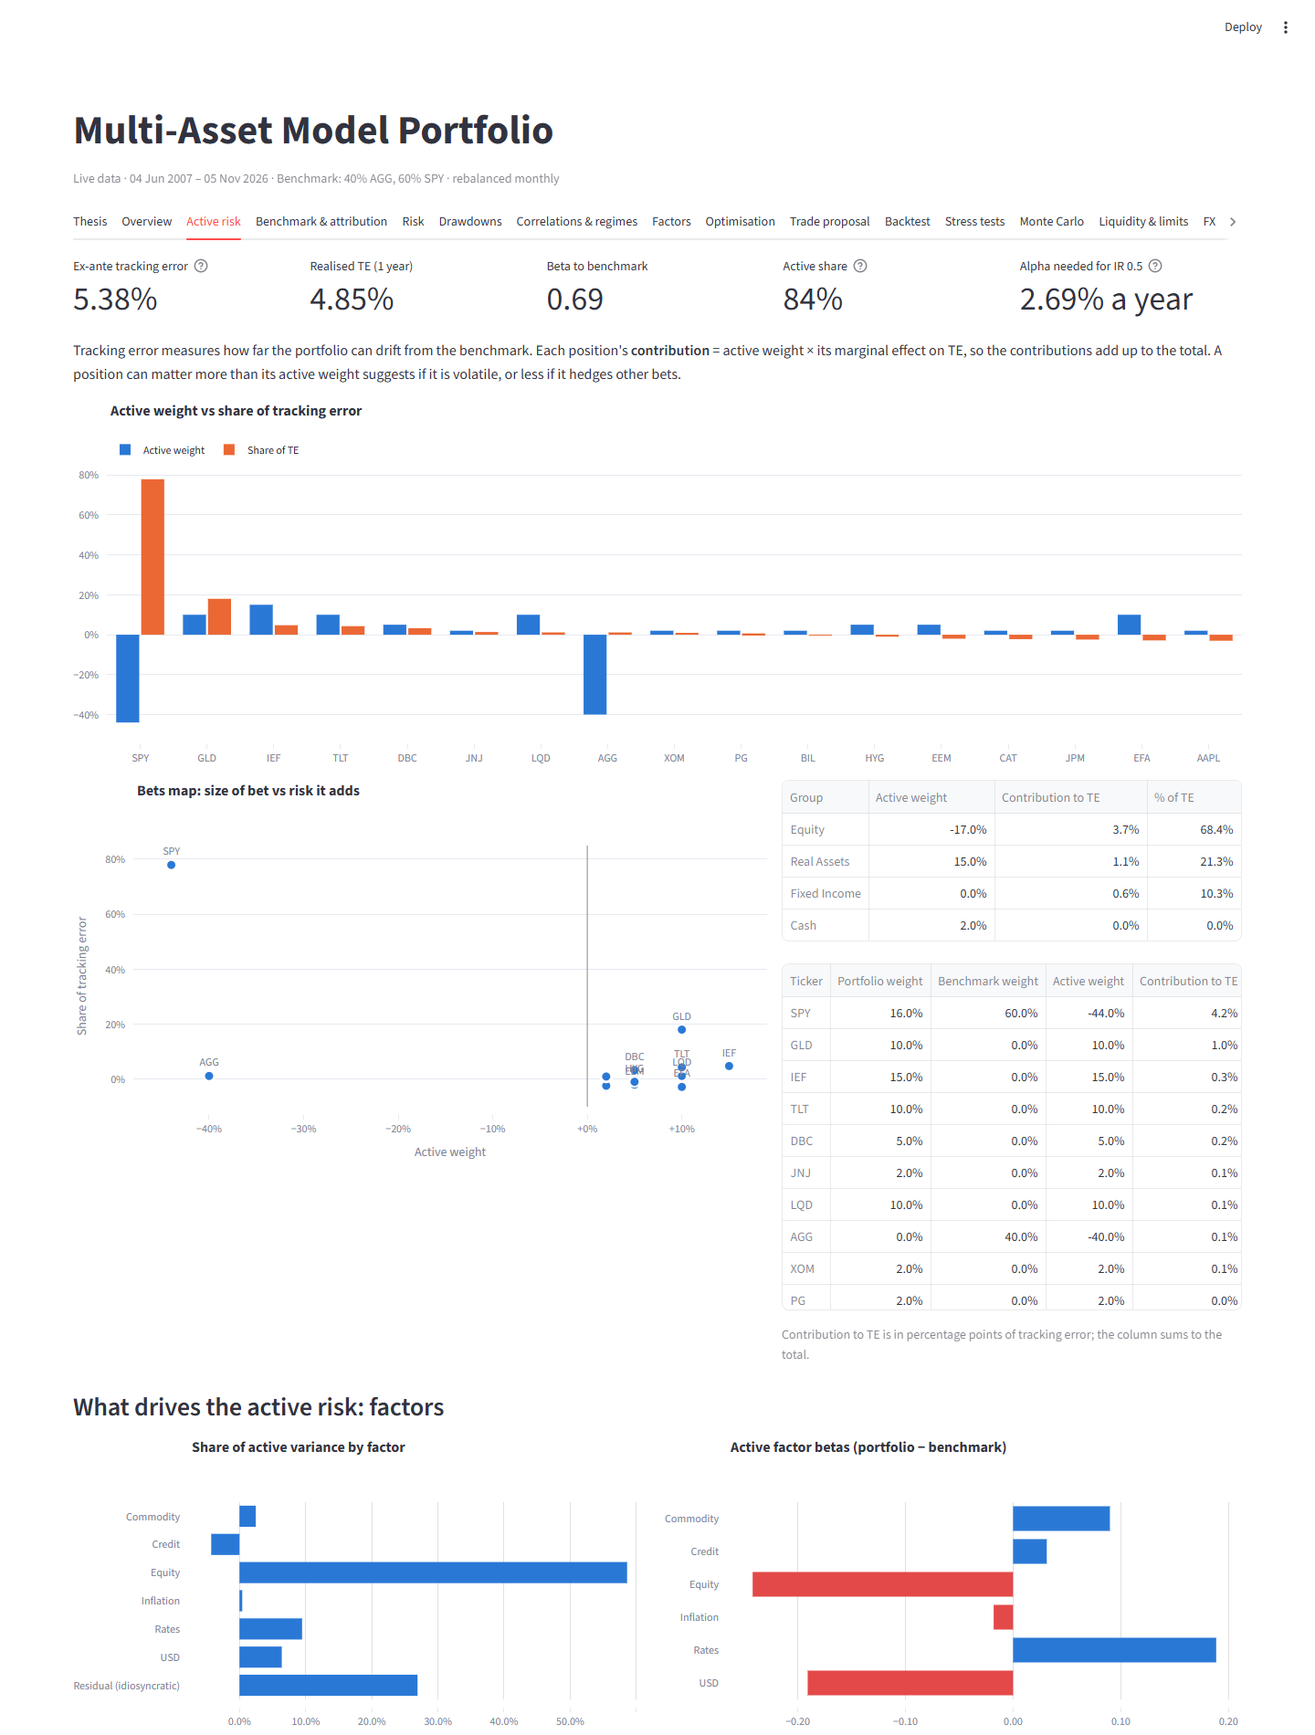
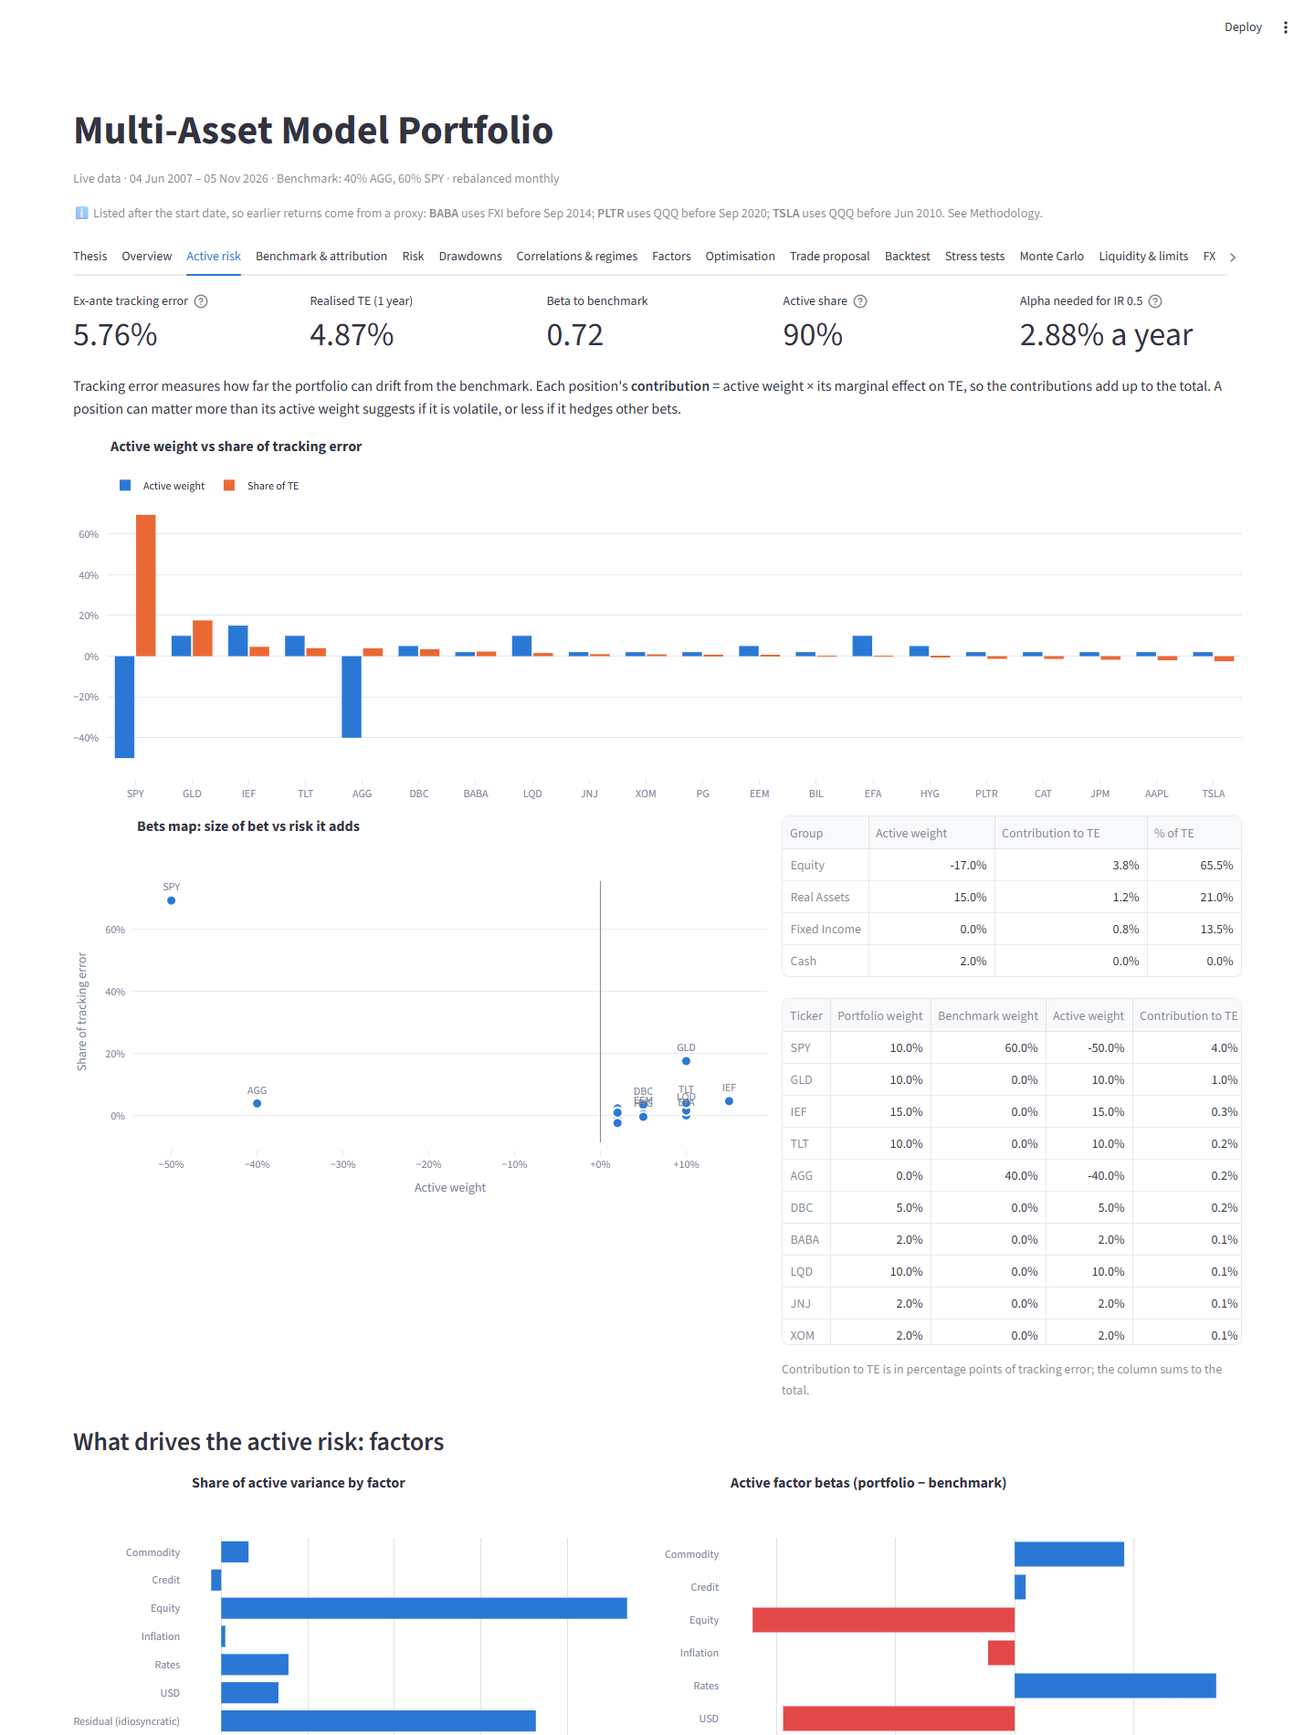
Add Tesla, Palantir and Alibaba with proxy-backfilled history
- PLTR/TSLA use QQQ and BABA uses FXI for returns before they listed,
  so the 2007+ history (incl. the GFC) is kept; flagged in the dashboard
- Placeholders for Anthropic (ANT, filed Oct 2026) and OpenAI (not yet listed)
- Refreshed thesis, README figures and screenshots

diff --git a/src/pa/analysis.py b/src/pa/analysis.py
@@ -27,9 +27,29 @@ class Analysis:
     # --- return series ---------------------------------------------------
     @cached_property
     def all_returns(self) -> pd.DataFrame:
+        """Daily returns. A holding that listed after the start date takes its
+        proxy's returns before listing (see `backfilled`); its own returns are
+        used from the first full day of trading."""
         cols = [c for c in self.md.prices.columns if c not in (self.cfg["vix_ticker"],
                                                                self.cfg["fx"]["fx_ticker"])]
-        return self.md.returns(cols).dropna(subset=self.cfg.tickers)
+        r = self.md.returns(cols)
+        for t, proxy in self.cfg.proxies.items():
+            if t in r and proxy in r:
+                pre = r[t].isna() & (r.index <= self.md.prices[t].first_valid_index())
+                r.loc[pre, t] = r.loc[pre, proxy]
+        return r.dropna(subset=self.cfg.tickers)
+
+    @cached_property
+    def backfilled(self) -> pd.DataFrame:
+        """Holdings whose early history comes from a proxy, and until when."""
+        rows = {}
+        start = self.all_returns.index[0]
+        for t, proxy in self.cfg.proxies.items():
+            listed = self.md.prices[t].first_valid_index()
+            if listed is not None and listed > start:
+                rows[t] = {"Proxy": proxy, "Own data from": listed,
+                           "Share of history from proxy": float((self.all_returns.index <= listed).mean())}
+        return pd.DataFrame(rows).T
 
     @property
     def asset_returns(self) -> pd.DataFrame:

diff --git a/tests/test_metrics.py b/tests/test_metrics.py
@@ -293,6 +293,24 @@ def test_trailing_returns_ytd():
     assert "1 year" not in tr.index   # not enough history
 
 
+def test_proxy_backfill_only_before_listing(cfg, market):
+    from pa.analysis import Analysis
+    from pa.data import MarketData
+
+    prices = market.prices.copy()
+    listing = pd.Timestamp("2015-06-01")
+    prices.loc[prices.index < listing, "PLTR"] = np.nan
+    a = Analysis(cfg, MarketData(prices, market.volumes, market.cpi, "synthetic"))
+    r = a.all_returns
+    first = prices["PLTR"].first_valid_index()
+    pre, post = r.index <= first, r.index > first
+    np.testing.assert_allclose(r.loc[pre, "PLTR"], r.loc[pre, "QQQ"])
+    own = prices["PLTR"].pct_change(fill_method=None).reindex(r.index)
+    np.testing.assert_allclose(r.loc[post, "PLTR"], own[post])
+    assert r.index[0] < listing                      # history is not truncated
+    assert a.backfilled.loc["PLTR", "Proxy"] == "QQQ"
+
+
 def test_thesis_builds_on_synthetic_data(cfg):
     from pa.analysis import Analysis
     from pa.insights import build_thesis, thesis_markdown

diff --git a/src/pa/config.py b/src/pa/config.py
@@ -73,6 +73,14 @@ class Config:
     def trading_days(self) -> int:
         return int(self.raw.get("trading_days", 252))
 
+    @property
+    def proxies(self) -> dict[str, str]:
+        """Holding -> proxy ticker used for returns before the holding listed."""
+        if "proxy" not in self._assets:
+            return {}
+        p = self._assets["proxy"].dropna()
+        return {t: v for t, v in p.items() if isinstance(v, str) and v}
+
     def factor_tickers(self) -> list[str]:
         out = []
         for v in self.raw["factors"].values():
@@ -83,6 +91,7 @@ class Config:
         """Every price series the analytics need (deduplicated, order-preserving)."""
         groups = self.raw["benchmark"]["groups"].values()
         extra = (list(self.benchmark_weights.index) + [g["proxy"] for g in groups]
+                 + list(self.proxies.values())
                  + self.factor_tickers() + [self.raw["vix_ticker"], self.raw["fx"]["fx_ticker"]])
         return list(dict.fromkeys(self.tickers + extra))
 

diff --git a/src/pa/insights.py b/src/pa/insights.py
@@ -84,7 +84,7 @@ def build_thesis(a: Analysis, target_method: str = "max_sharpe") -> dict:
         f"Equity-type holdings are {cfg.weights[eq_cls].sum():.0%} of capital but "
         f"**{rc.loc[eq_cls[eq_cls].index, '% of risk'].sum():.0%} of volatility**; the equity factor alone "
         f"explains {fd.loc['Equity', '% of variance']:.0%} of portfolio variance. "
-        f"The six single stocks are {cfg.weights[stocks].sum():.0%} of capital and "
+        f"The {int(stocks.sum())} single stocks are {cfg.weights[stocks].sum():.0%} of capital and "
         f"{rc.loc[stocks[stocks].index, '% of risk'].sum():.0%} of risk. "
         f"**{worst_ratio}** carries the most risk per unit of weight ({rc.loc[worst_ratio, 'Risk / weight']:.1f}×), "
         f"while {_names(rc['Risk / weight'].drop(cfg.cash_ticker).nsmallest(2).index, 2)} "

diff --git a/app/dashboard.py b/app/dashboard.py
@@ -207,6 +207,10 @@ st.title(cfg["name"])
 st.caption(f"{a.md.source.title()} data · {port.index[0]:%d %b %Y} – {port.index[-1]:%d %b %Y} · "
            f"Benchmark: " + ", ".join(f"{w:.0%} {t}" for t, w in cfg.benchmark_weights.items())
            + f" · rebalanced {cfg['backtest']['rebalance'].replace('ME', 'monthly')}")
+if len(a.backfilled):
+    st.caption("ℹ Listed after the start date, so earlier returns come from a proxy: " + "; ".join(
+        f"**{t}** uses {r['Proxy']} before {pd.Timestamp(r['Own data from']):%b %Y}"
+        for t, r in a.backfilled.iterrows()) + ". See Methodology.")
 
 TAB_NAMES = ["Thesis", "Overview", "Active risk", "Benchmark & attribution", "Risk", "Drawdowns",
              "Correlations & regimes", "Factors", "Optimisation", "Trade proposal", "Backtest",

diff --git a/src/pa/data.py b/src/pa/data.py
@@ -122,6 +122,11 @@ _LOADINGS = {
     "XOM": ({"EQ": 0.8, "CMD": 0.5}, 0.18, -0.02),
     "PG": ({"EQ": 0.5}, 0.13, 0.0),
     "CAT": ({"EQ": 1.15, "CMD": 0.3}, 0.22, 0.01),
+    "PLTR": ({"EQ": 1.7}, 0.45, 0.05),
+    "TSLA": ({"EQ": 1.5}, 0.40, 0.05),
+    "BABA": ({"EQ": 0.9, "USD": -0.6}, 0.32, -0.04),
+    "QQQ": ({"EQ": 1.15}, 0.05, 0.02),
+    "FXI": ({"EQ": 0.9, "USD": -0.5}, 0.15, -0.03),
     "IEF": ({"RATES": 1.0}, 0.01, 0.0),
     "TLT": ({"RATES": 2.2}, 0.03, 0.0),
     "AGG": ({"RATES": 0.75, "CREDIT": 0.15}, 0.01, 0.0),

diff --git a/docs/thesis.md b/docs/thesis.md
@@ -1,19 +1,19 @@
 # Investment thesis
 *Generated from live data to 05 November 2026. Model output for exploration, not investment advice.*
 
-**Performance.** Since June 2007 the portfolio returned **7.2% a year** at **9.6% volatility** (Sharpe 0.62), against 7.6% at 11.8% for the benchmark (Sharpe 0.56). The worst drawdown was -28.9% vs -35.8%, and it captured 85% of the benchmark's up months but only 79% of its down months. Over the last year: +8.5% vs +5.7%.
+**Performance.** Since June 2007 the portfolio returned **8.3% a year** at **10.0% volatility** (Sharpe 0.71), against 7.6% at 11.8% for the benchmark (Sharpe 0.56). The worst drawdown was -28.7% vs -35.8%, and it captured 91% of the benchmark's up months but only 78% of its down months. Over the last year: +6.8% vs +5.7%.
 
-**Active risk.** Ex-ante tracking error is **5.4%** with a beta of 0.69 to the benchmark. **The biggest sources are SPY, GLD and IEF**: SPY -44% active, 78% of TE; GLD +10% active, 18% of TE; IEF +15% active, 5% of TE (everything else nets to -1%). Most active risk comes from being **underweight SPY**; the 6 single stocks contribute only -5%. By group, Equity accounts for 68%. AAPL and EFA slightly reduce tracking error: they partly offset the larger active bets (e.g. adding back some of the missing equity exposure). Realised tracking error over the last year was 4.9%.
+**Active risk.** Ex-ante tracking error is **5.8%** with a beta of 0.72 to the benchmark. **The biggest sources are SPY, GLD and IEF**: SPY -50% active, 69% of TE; GLD +10% active, 18% of TE; IEF +15% active, 5% of TE (everything else nets to +8%). Most active risk comes from being **underweight SPY**; the 9 single stocks contribute only -4%. By group, Equity accounts for 65%. TSLA and AAPL slightly reduce tracking error: they partly offset the larger active bets (e.g. adding back some of the missing equity exposure). Realised tracking error over the last year was 4.9%.
 
-**Risk drivers.** Equity-type holdings are 43% of capital but **62% of volatility**; the equity factor alone explains 63% of portfolio variance. The six single stocks are 12% of capital and 13% of risk. **CAT** carries the most risk per unit of weight (2.3×), while DBC and IEF diversify most cheaply.
+**Risk drivers.** Equity-type holdings are 43% of capital but **66% of volatility**; the equity factor alone explains 64% of portfolio variance. The 9 single stocks are 18% of capital and 29% of risk. **TSLA** carries the most risk per unit of weight (3.5×), while JNJ and PG diversify most cheaply.
 
-**Diversification.** Average pairwise correlation rises from **0.22 in calm markets to 0.32 when VIX is high**: diversification thins out when it matters. Equity-credit correlation goes from 0.67 to 0.79, so HY credit behaves like equity in a sell-off. Treasuries remain the hedge (SPY-IEF -0.24 calm, -0.20 stressed), but 2022 showed that this hedge fails when inflation drives rates.
+**Diversification.** Average pairwise correlation rises from **0.21 in calm markets to 0.33 when VIX is high**: diversification thins out when it matters. Equity-credit correlation goes from 0.67 to 0.79, so HY credit behaves like equity in a sell-off. Treasuries remain the hedge (SPY-IEF -0.24 calm, -0.20 stressed), but 2022 showed that this hedge fails when inflation drives rates.
 
-**Tail risk.** 1-day 99% VaR is **\$1,688,581** historically vs \$1,213,926 under a normal distribution: the bell curve understates the tail by 39%. Daily returns have excess kurtosis of 10.9. In the VaR backtest at 99%, no method passes both tests, so treat VaR as a lower bound.
+**Tail risk.** 1-day 99% VaR is **\$1,739,570** historically vs \$1,308,744 under a normal distribution: the bell curve understates the tail by 33%. Daily returns have excess kurtosis of 9.7. In the VaR backtest at 99%, no method passes both tests, so treat VaR as a lower bound.
 
-**Stress.** Replaying history on today's weights, the worst episode is the **Global Financial Crisis (-18.8%, −\$18.8m)**. The portfolio lost less than the benchmark in 7 of 8 crises. Among hypothetical shocks, **Stagflation** hurts most once correlated moves are included (-10.1%).
+**Stress.** Replaying history on today's weights, the worst episode is the **Global Financial Crisis (-18.5%, −\$18.5m)**. The portfolio lost less than the benchmark in 7 of 8 crises. Among hypothetical shocks, **Stagflation** hurts most once correlated moves are included (-10.2%).
 
 **Liquidity.** Liquidity is not a constraint at \$100m: the least liquid holding, DBC, would take 1.9 days to exit at 20% of stressed volume. The real liquidity risk is in HYG and LQD's underlying bonds, which can trade at a discount to NAV in a crisis.
 
-**What the model would change.** The constrained maximum-Sharpe optimiser (Black-Litterman returns, Ledoit-Wolf risk) would **buy SPY +18% and EEM +5%** and **sell EFA -9%, IEF -4% and LQD -2%**, 23% one-way turnover costing about \$48,665. Volatility moves 8.2% → 9.5%, tracking error 5.4% → 3.9%, expected Sharpe 0.30 → 0.31; on the model's own return forecasts the cost is earned back in about a month. In effect it moves the portfolio **closer to the benchmark** (beta 0.69 → 0.87) and gives up some diversification (effective holdings 10 → 6). The sensitivity analysis shows these weights move a lot for small changes in expected returns, so treat them as a direction, not a precise target.
+**What the model would change.** The constrained maximum-Sharpe optimiser (Black-Litterman returns, Ledoit-Wolf risk) would **buy SPY +17% and EEM +5%** and **sell EFA -8%, IEF -3% and LQD -2%**, 22% one-way turnover costing about \$46,149. Volatility moves 9.0% → 10.0%, tracking error 5.8% → 4.5%, expected Sharpe 0.31 → 0.32; on the model's own return forecasts the cost is earned back in about a month. In effect it moves the portfolio **closer to the benchmark** (beta 0.72 → 0.88) and gives up some diversification (effective holdings 12 → 8). The sensitivity analysis shows these weights move a lot for small changes in expected returns, so treat them as a direction, not a precise target.
 

diff --git a/README.md b/README.md
@@ -6,7 +6,7 @@
 
 A portfolio risk and analytics toolkit in Python, built to answer the questions a portfolio manager asks: *How much risk am I taking relative to my benchmark, and where does it come from? What happens in a crisis? What would I change, and is it worth the trading cost?*
 
-It analyses a model portfolio of **10 ETFs and 6 single stocks** across equities, government bonds, credit, commodities and cash, against a 60/40 benchmark, using real market data from 2007 onwards. The results appear in a 16-tab interactive dashboard, an auto-generated investment thesis and a one-page tear sheet.
+It analyses a model portfolio of **10 ETFs and 9 single stocks** (including Tesla, Palantir and Alibaba) across equities, government bonds, credit, commodities and cash, against a 60/40 benchmark, using real market data from 2007 onwards. The results appear in a 16-tab interactive dashboard, an auto-generated investment thesis and a one-page tear sheet.
 
 > **Disclaimer.** This is a personal project for learning and exploration. Nothing here is investment advice.
 
@@ -18,12 +18,13 @@ It analyses a model portfolio of **10 ETFs and 6 single stocks** across equities
 
 *Snapshot from live data to 5 November 2026. The full version, generated from the numbers, is in [`docs/thesis.md`](docs/thesis.md).*
 
-- **Better risk-adjusted, slightly lower return.** 7.2% a year at 9.6% volatility (Sharpe 0.62) vs 7.6% at 11.8% for the 60/40 (Sharpe 0.56). The max drawdown was −28.9% vs −35.8%.
-- **Active risk is one big bet.** Ex-ante tracking error is 5.4%, and **78% of it comes from being underweight SPY**. The six single stocks together *reduce* tracking error slightly.
-- **Diversification thins out in stress.** Average correlation rises from 0.22 (calm) to 0.32 (high VIX), and HY credit's correlation with equities rises to 0.79.
-- **The normal distribution understates the tail by 39%** at 99% VaR. In backtests, only filtered historical simulation passes at 95%, and no method passes at 99%, so VaR is best read as a lower bound.
-- **The portfolio lost less than the 60/40 in 7 of 8 historical crises.** The worst replay is the GFC (−18.8% vs −29.4%).
-- **The optimiser's suggestion** (buy SPY, sell EFA) would cut tracking error from 5.4% to 3.9% for about 5 bps of trading cost. It does this mainly by moving closer to the benchmark.
+- **Better return and risk-adjusted return.** 8.3% a year at 10.0% volatility (Sharpe 0.71) vs 7.6% at 11.8% for the 60/40 (Sharpe 0.56). The max drawdown was −28.7% vs −35.8%. Part of the edge comes from Tesla and Palantir, which were picked with hindsight (see Caveats).
+- **Active risk is one big bet.** Ex-ante tracking error is 5.8%, and **69% of it comes from being underweight SPY**. The nine single stocks together *reduce* tracking error slightly.
+- **Small positions, outsized risk.** Tesla and Palantir are 2% of capital each but contribute about 7% of portfolio volatility each, 3.5× their weight. All nine stocks together are 18% of capital and 29% of risk.
+- **Diversification thins out in stress.** Average correlation rises from 0.21 (calm) to 0.33 (high VIX), and HY credit's correlation with equities rises to 0.79.
+- **The normal distribution understates the tail by 33%** at 99% VaR. In backtests, only filtered historical simulation passes at 95%, and no method passes at 99%, so VaR is best read as a lower bound.
+- **The portfolio lost less than the 60/40 in 7 of 8 historical crises.** The worst replay is the GFC (−18.5% vs −29.4%).
+- **The optimiser's suggestion** (buy SPY, sell EFA) would cut tracking error from 5.8% to 4.5% for about 5 bps of trading cost. It does this mainly by moving closer to the benchmark.
 
 ---
 
@@ -153,7 +154,7 @@ pip install -e ".[dev]"
 streamlit run app/dashboard.py    # dashboard at http://localhost:8501
 python -m pa.insights             # regenerate docs/thesis.md
 python -m pa.tearsheet            # one-page reports/tearsheet.html (print to PDF)
-pytest                            # 33 tests, offline
+pytest                            # 34 tests, offline
 ```
 
 Data downloads on first run and is cached in `data/cache/`. Offline, the code falls back to a synthetic two-regime market, and a banner says so.
@@ -199,7 +200,9 @@ tests/                    pytest suite
 
 ## Caveats
 
-- **Hindsight bias.** The six stocks (Apple, JPMorgan, J&J, Exxon, P&G, Caterpillar) were chosen in 2026, knowing they survived, so backtests that include them are optimistic.
+- **Hindsight bias.** The nine stocks (Apple, JPMorgan, J&J, Exxon, P&G, Caterpillar, Tesla, Palantir, Alibaba) were chosen in 2026, knowing how they turned out, so backtests that include them are optimistic.
+- **Proxy history.** Palantir (listed 2020), Tesla (2010) and Alibaba (2014) use proxy returns before they listed: Nasdaq-100 for Palantir and Tesla, China large-caps for Alibaba. The dashboard flags this.
+- **Anthropic and OpenAI** aren't publicly traded yet. Anthropic has filed to list on Nasdaq as ANT, and OpenAI has filed confidentially. Ready-made entries are commented out in the config for when they list.
 - ETF histories begin in 2007, which covers the GFC but nothing earlier.
 - Durations, spreads and factor proxies are approximations, fine for analysis but not for trading.
 - Optimised weights are sensitive to expected-return inputs; the Optimisation tab shows how much.

diff --git a/docs/methodology.md b/docs/methodology.md
@@ -4,7 +4,9 @@
 - **Source.** Yahoo Finance daily closes, adjusted for dividends and splits, so all returns are **total returns**. CPI comes from FRED (`CPIAUCSL`). Downloads are cached in `data/cache/`. When the data is offline, a synthetic market is used instead: a two-regime factor model with fat-tailed shocks and crisis correlation jumps. A banner says when it is in use.
 - **Calendar.** Rows are SPY trading days. VIX and FX values are forward-filled across holiday gaps of up to 5 days. Nothing is ever back-filled, because that would leak future prices into the past.
 - **Asynchronous closes.** EFA and EEM hold assets that close hours before the US. That biases *daily* correlations towards zero, so correlations, factor regressions and stress betas use **weekly** returns by default.
-- **Survivorship and hindsight bias.** The six single stocks (Apple, JPMorgan, J&J, Exxon, P&G, Caterpillar) were chosen *today*, knowing they survived and became large. A 2007 investor couldn't have known that, so treat stock-level backtest results as optimistic. The ETF universe has the same issue to a lesser degree.
+- **Survivorship and hindsight bias.** The nine single stocks (Apple, JPMorgan, J&J, Exxon, P&G, Caterpillar, Palantir, Tesla, Alibaba) were chosen *today*, knowing how they turned out. A 2007 investor couldn't have known that, so treat stock-level backtest results as optimistic. The ETF universe has the same issue to a lesser degree.
+- **Proxy backfill.** Palantir (listed Sep 2020), Tesla (Jun 2010) and Alibaba (Sep 2014) didn't exist for the whole period. Before each listing, their returns are taken from a proxy: Nasdaq-100 (QQQ) for Palantir and Tesla, China large-caps (FXI) for Alibaba. The dashboard lists which holdings are backfilled and from when. Results for those periods, such as the 2008 stress test, show how a *similar* exposure behaved, not the stock itself. Current risk estimates (3-year covariance, liquidity) use each stock's own data.
+- **Anthropic and OpenAI** aren't publicly traded yet. Anthropic filed to list on Nasdaq as ANT in October 2026; OpenAI filed a confidential draft S-1 in June 2026, reportedly targeting 2027. Ready-made entries are commented out in the config.
 - **Cash and the risk-free rate.** BIL (1–3 month T-bills) stands in for both.
 
 ### Returns and performance
